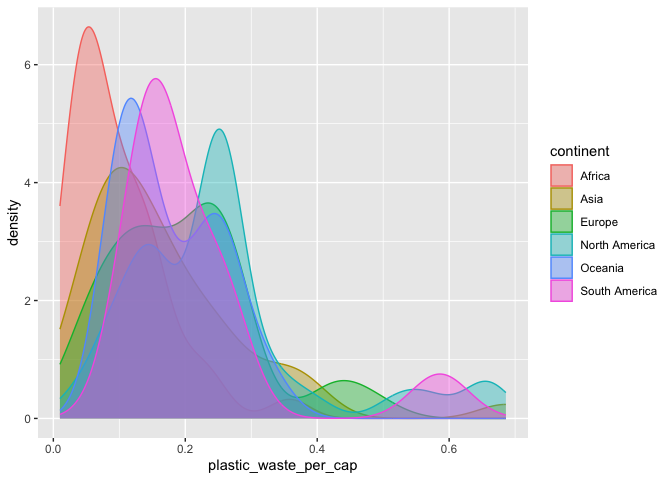
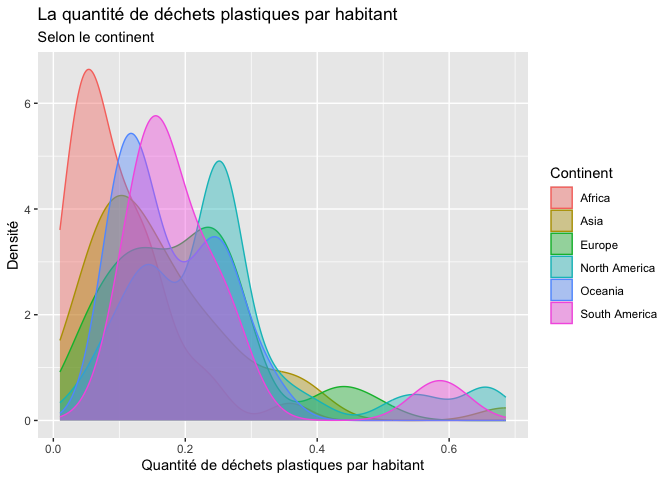
Finalisation du devoir

diff --git a/lab-02.md b/lab-02.md
@@ -28,7 +28,9 @@ plastic_waste <- plastic_waste %>%
 ``` r
 ggplot(data = plastic_waste, aes(x = plastic_waste_per_cap)) +
   geom_histogram(binwidth = 0.2) +
-  facet_wrap( ~ continent)
+  facet_wrap( ~ continent) +
+  labs( title = "La distribution des quantités de déchets 
+        plastiques par habitant", subtitle = "Selon le continent", x = "Quantité de déchets plastiques par habitant", y = "Distribution")
 ```
 
 ![](lab-02_files/figure-gfm/plastic-waste-continent-1.png)<!-- -->
@@ -36,42 +38,43 @@ ggplot(data = plastic_waste, aes(x = plastic_waste_per_cap)) +
 Certains continents ont des habitants qui produisent plus de déchets que
 d’autres. Par exemple, les continents de l’Amérique du Nord, de l’Asie
 et de l’Europe sont les plus grands producteurs de déchets. De plus,
-l’Océanie et l’Amérique du Sud en produisent moins que les continents.
-L’Afrique produit moins de déchets. En effet, pour le premier groupe, la
-majorité des habitants produisent de 0,00 à 0,25 kg/jour, alors que la
-minorité en produisent plus de 0,25 kg/jour. Pour le groupe de l’Océanie
-et de l’Amérique du Sud, la majorité des habitants produisent entre 0,00
-et 0,25 kg/jour, alors qu’une petite quantité d’habitants de l’Amérique
-du Sud en produisent plus de 0,50 kg/jour, comparé à un maximum de 0,50
-kg/jour pour l’Océanie. Finalement, pour l’Afrique, presque tous les
-habitants produisent de 0,00 à 0,25 kg/jour.
+l’Océanie et l’Amérique du Sud en produisent moins que les autres
+continents. L’Afrique produit le moins de déchets. En effet, pour le
+premier groupe, la majorité des habitants produisent de 0,00 à 0,25
+kg/jour, alors que d’autres en produisent plus de 0,25 kg/jour. Pour le
+groupe de l’Océanie et de l’Amérique du Sud, la majorité des habitants
+produisent entre 0,00 et 0,25 kg/jour, alors qu’une petite quantité
+d’habitants de l’Amérique du Sud en produisent plus de 0,50 kg/jour,
+comparé à un maximum de 0,50 kg/jour pour l’Océanie. Finalement, pour
+l’Afrique, presque tous les habitants produisent de 0,00 à 0,25 kg/jour.
 
 ### Exercise 2
 
 ``` r
-ggplot(plastic_waste, aes(x = plastic_waste_per_cap)) + 
-  geom_density(adjust = 1)
+ggplot(plastic_waste, aes(x = plastic_waste_per_cap)) +
+  geom_density(adjust = 1) +
+  labs( title = "La quantité de déchets plastiques par habitant", x = "Quantité de déchets plastiques par habitant", y = "Densité")
 ```
 
 ![](lab-02_files/figure-gfm/plastic-waste-density-1.png)<!-- -->
 
 ``` r
 ggplot(plastic_waste, aes(x = plastic_waste_per_cap, color = continent)) + 
-  geom_density(adjust = 1)
+  geom_density(adjust = 1) + labs( title = "La quantité de déchets plastiques par habitant", subtitle = "Selon le continent", x = "Quantité de déchets plastiques par habitant", y = "Densité", color = "Continent")
 ```
 
 ![](lab-02_files/figure-gfm/plastic-waste-density-2.png)<!-- -->
 
 ``` r
 ggplot(plastic_waste, aes(x = plastic_waste_per_cap, color = continent, fill = continent)) + 
-  geom_density(adjust = 1)
+  geom_density(adjust = 1) + labs( title = "La quantité de déchets plastiques par habitant", subtitle = "Selon le continent", x = "Quantité de déchets plastiques par habitant", y = "Densité", color = "Continent", fill = "Continent")
 ```
 
 ![](lab-02_files/figure-gfm/plastic-waste-density-3.png)<!-- -->
 
 ``` r
 ggplot(plastic_waste, aes(x = plastic_waste_per_cap, color = continent, fill = continent)) + 
-  geom_density(adjust = 1, alpha = 0.4)
+  geom_density(adjust = 1, alpha = 0.4) + labs( title = "La quantité de déchets plastiques par habitant", subtitle = "Selon le continent", x = "Quantité de déchets plastiques par habitant", y = "Densité", color = "Continent", fill = "Continent")
 ```
 
 ![](lab-02_files/figure-gfm/plastic-waste-density-4.png)<!-- -->
@@ -85,7 +88,8 @@ Boxplot:
 
 ``` r
 ggplot(plastic_waste, aes(x = continent, y = plastic_waste_per_cap)) +
-  geom_boxplot()
+  geom_boxplot() +
+  labs( title = "La quantité de déchets plastiques par habitant selon le continent", x = "Continent", y = "Quantité de déchets plastiques par habitant")
 ```
 
 ![](lab-02_files/figure-gfm/plastic-waste-boxplot-1.png)<!-- -->
@@ -94,7 +98,8 @@ Violin plot:
 
 ``` r
 ggplot(plastic_waste, aes(x = continent, y = plastic_waste_per_cap)) +
-  geom_violin()
+  geom_violin() +
+  labs( title = "La quantité de déchets plastiques par habitant selon le continent", x = "Continent", y = "Quantité de déchets plastiques par habitant")
 ```
 
 ![](lab-02_files/figure-gfm/plastic-waste-violin-1.png)<!-- -->
@@ -105,8 +110,8 @@ l’estimation de la densité, ce que les boxplots ne permettent pas.
 ### Exercise 4
 
 ``` r
-ggplot(plastic_waste, aes(x = plastic_waste_per_cap, y = mismanaged_plastic_waste_per_cap, color = continent)) +
-  geom_point()
+ggplot(plastic_waste, aes(x = plastic_waste_per_cap, y = mismanaged_plastic_waste_per_cap, color = continent)) + geom_point() +
+  labs( title = "La quantité de déchets plastiques par habitant selon la quantité de déchets non gérés par habitant", subtitle = "Selon le continent", x = "Quantité de déchets plastiques par habitant", y = "Quantité de déchets non gérés par habitant", color = "Continent")
 ```
 
 ![](lab-02_files/figure-gfm/plastic-waste-mismanaged-1.png)<!-- -->
@@ -121,13 +126,16 @@ semble quand même bien gérer ses déchets, puisqu’ils en produisent
 beaucoup, mais que les valeurs en y sont peu élevées. Pour l’Amérique du
 Nord, les valeurs sont plus dispersées dans le graphique, de sorte que
 les valeurs en x et en y sont élevés, donc qu’ils produisent beaucoup et
-les gèrent mal.
+les gèrent mal. De son côté, l’Océanie produisent une quantité moyenne
+de déchets, mais les gèrent mal aussi. Même chose aussi pour l’Amérique
+du Sud.
 
 ### Exercise 5
 
 ``` r
 ggplot(plastic_waste, aes(x = plastic_waste_per_cap, y = total_pop)) +
-  geom_point()
+  geom_point() + 
+  labs( title = "La quantité de déchets plastiques par habitant selon la population totale", x = "Quantité de déchets plastiques par habitant", y = "Population totale")
 ```
 
     ## Warning: Removed 10 rows containing missing values or values outside the scale range
@@ -137,19 +145,44 @@ ggplot(plastic_waste, aes(x = plastic_waste_per_cap, y = total_pop)) +
 
 ``` r
 ggplot(plastic_waste, aes(x = plastic_waste_per_cap, y = coastal_pop)) +
-  geom_point()
+  geom_point() + 
+  labs( title = "La quantité de déchets plastiques par habitant selon la population côtière", x = "Quantité de déchets plastiques par habitant", y = "Population côtière")
 ```
 
 ![](lab-02_files/figure-gfm/plastic-waste-population-total-2.png)<!-- -->
+
 Les deux relations sont semblables. Il est difficile de confirmer à
 l’oeil nu si la tendance est plus forte dans un ou l’autre dans la
 graphique. La seule différence notable est que les données du deuxième
-graphique ont des valeurs en y plus importantes.
+graphique ont des valeurs en y plus élevées entre x = 0,0 et 0,2.
 
 ## Conclusion
 
 Recréez la visualisation:
 
 ``` r
-# insert code here
+plastic_waste_coastal <- plastic_waste %>% 
+  mutate(coastal_pop_prop = coastal_pop / total_pop) %>%
+  filter(plastic_waste_per_cap < 3)
+
+ggplot(plastic_waste_coastal, aes(x = coastal_pop_prop, y = plastic_waste_per_cap, color = continent)) +
+  geom_point() +
+  geom_smooth(method = "loess", color = "black") +
+  labs( title = "Quantité de déchets plastiques vs Proportion de la population côtière", subtitle = "Selon le continent", x = "Proportion de la population côtière (Coastal / total population)", y = "Nombre de déchets plastiques par habitant", color = "Continent")
 ```
+
+    ## `geom_smooth()` using formula = 'y ~ x'
+
+    ## Warning: Removed 10 rows containing non-finite outside the scale range
+    ## (`stat_smooth()`).
+
+    ## Warning: Removed 10 rows containing missing values or values outside the scale range
+    ## (`geom_point()`).
+
+![](lab-02_files/figure-gfm/recreate-viz-1.png)<!-- -->
+
+La relation n’est pas linéaire, elle monte au début, avant de se
+stabiliser au milieu, pour finir en diminuant. Il existe aussi une forte
+dispersion des points. De plus, la zone grise représente l’incertitude
+de la tendance en noir. Comme elle s’élargit aux extrémités, cela
+indique une diminution des données, donc de la fiabilité de la tendance.
